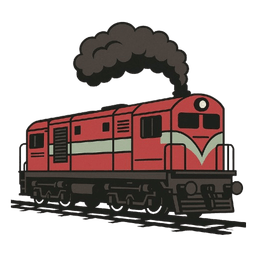
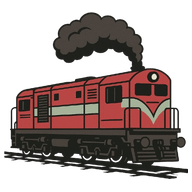
changes

Changed region(s): [[0.0, 0.0625, 1.0, 0.9375]]

diff --git a/src/app/sitemap.js b/src/app/sitemap.js
@@ -1,0 +1,44 @@
+// Served as /sitemap.xml — the public pages search engines should know about.
+import prisma from '@/lib/db'
+
+const SITE_URL = 'https://www.ldcewarriors.in'
+
+export const dynamic = 'force-dynamic'
+
+export default async function sitemap() {
+  const now = new Date()
+
+  const pages = [
+    { path: '/', priority: 1, changeFrequency: 'daily' },
+    { path: '/classes/topics', priority: 0.9, changeFrequency: 'weekly' },
+    { path: '/quiz', priority: 0.9, changeFrequency: 'weekly' },
+    { path: '/materials', priority: 0.9, changeFrequency: 'weekly' },
+    { path: '/articles', priority: 0.8, changeFrequency: 'daily' },
+    { path: '/join-family', priority: 0.8, changeFrequency: 'monthly' },
+    { path: '/about', priority: 0.6, changeFrequency: 'monthly' },
+    { path: '/contact', priority: 0.5, changeFrequency: 'yearly' },
+  ].map(p => ({ url: `${SITE_URL}${p.path}`, lastModified: now, changeFrequency: p.changeFrequency, priority: p.priority }))
+
+  let topicPages = []
+  let articlePages = []
+  try {
+    const [topics, articles] = await Promise.all([
+      prisma.topic.findMany({ where: { isActive: true }, select: { id: true, createdAt: true } }),
+      prisma.article.findMany({ where: { isPublished: true }, select: { id: true, updatedAt: true } }),
+    ])
+    topicPages = topics.flatMap(t => [
+      { url: `${SITE_URL}/quiz/topic/${t.id}`, lastModified: t.createdAt, changeFrequency: 'weekly', priority: 0.7 },
+      { url: `${SITE_URL}/materials/topic/${t.id}`, lastModified: t.createdAt, changeFrequency: 'weekly', priority: 0.7 },
+    ])
+    articlePages = articles.map(a => ({
+      url: `${SITE_URL}/articles/${a.id}`,
+      lastModified: a.updatedAt,
+      changeFrequency: 'monthly',
+      priority: 0.7,
+    }))
+  } catch {
+    // If the database is unreachable, still return the main pages
+  }
+
+  return [...pages, ...topicPages, ...articlePages]
+}

diff --git a/src/app/robots.js b/src/app/robots.js
@@ -1,0 +1,17 @@
+// Served as /robots.txt — lets search engines crawl the public site,
+// keeps them out of admin, API, exam and personal pages.
+const SITE_URL = 'https://www.ldcewarriors.in'
+
+export default function robots() {
+  return {
+    rules: [
+      {
+        userAgent: '*',
+        allow: ['/', '/api/media/'],
+        disallow: ['/admin', '/api/', '/exam/', '/profile', '/auth/', '/materials/read/'],
+      },
+    ],
+    sitemap: `${SITE_URL}/sitemap.xml`,
+    host: SITE_URL,
+  }
+}
